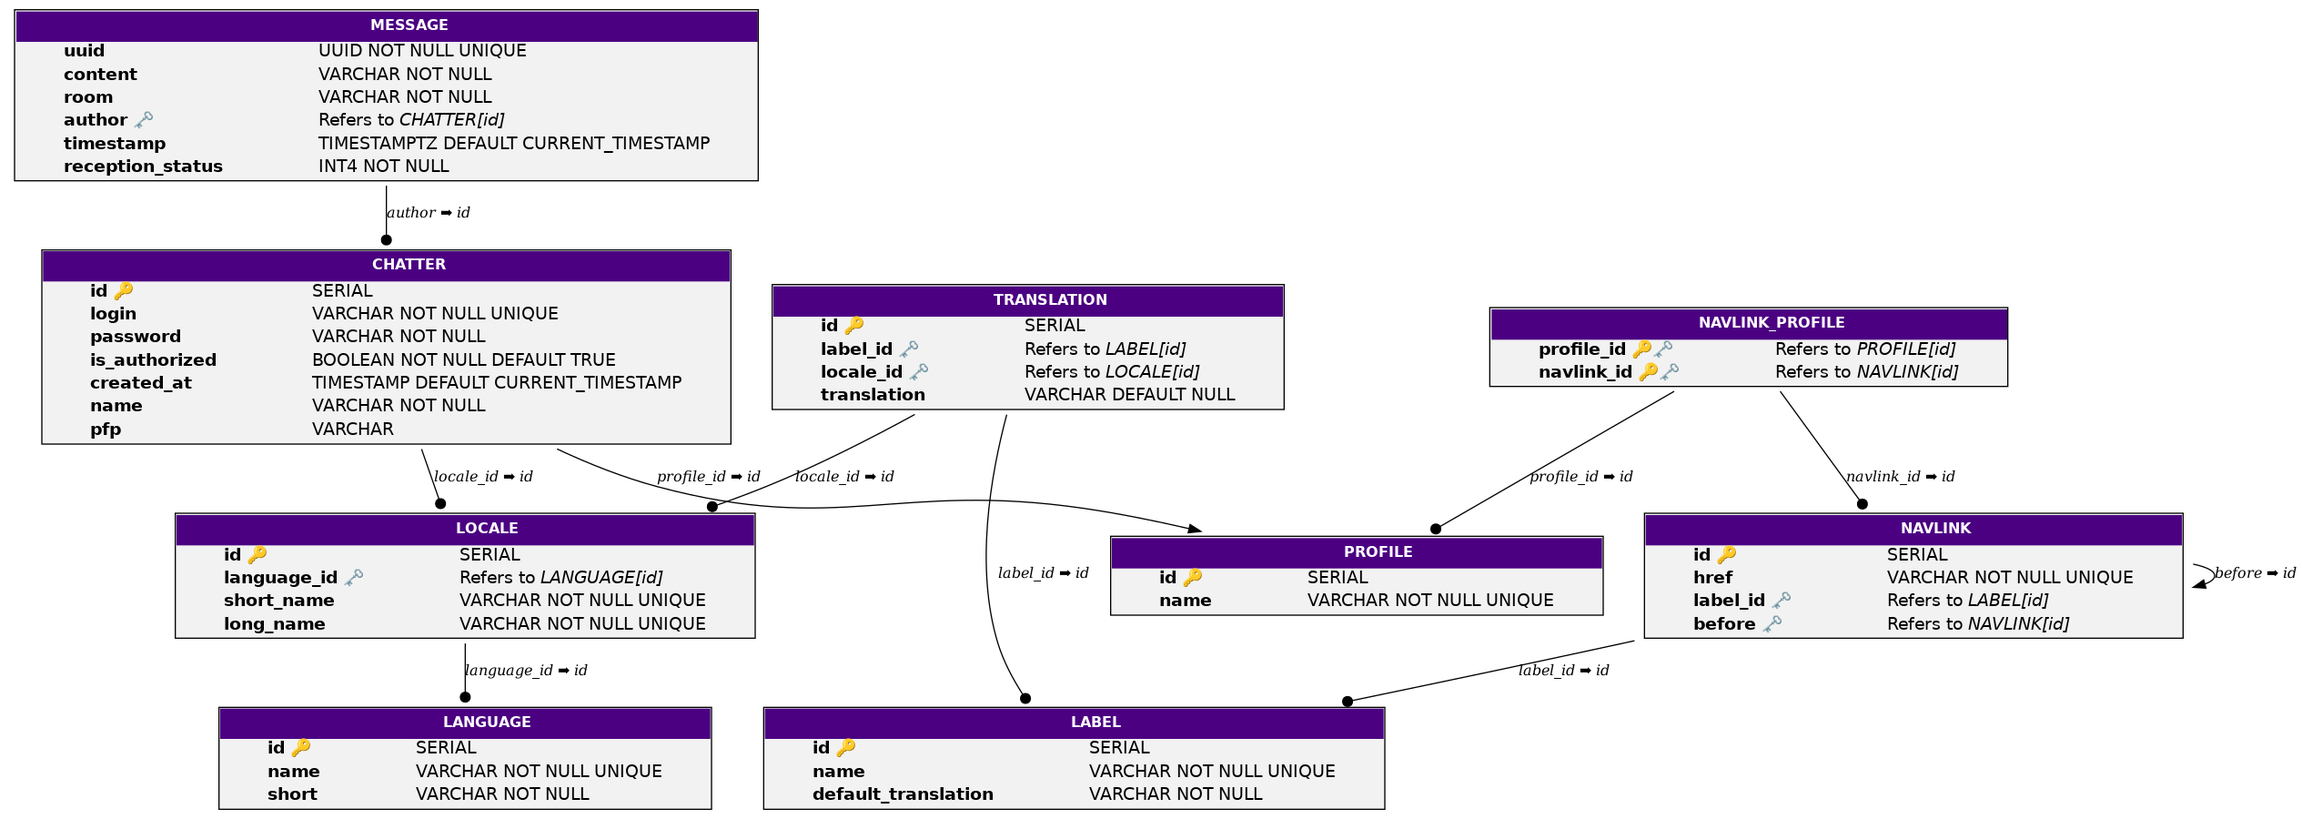
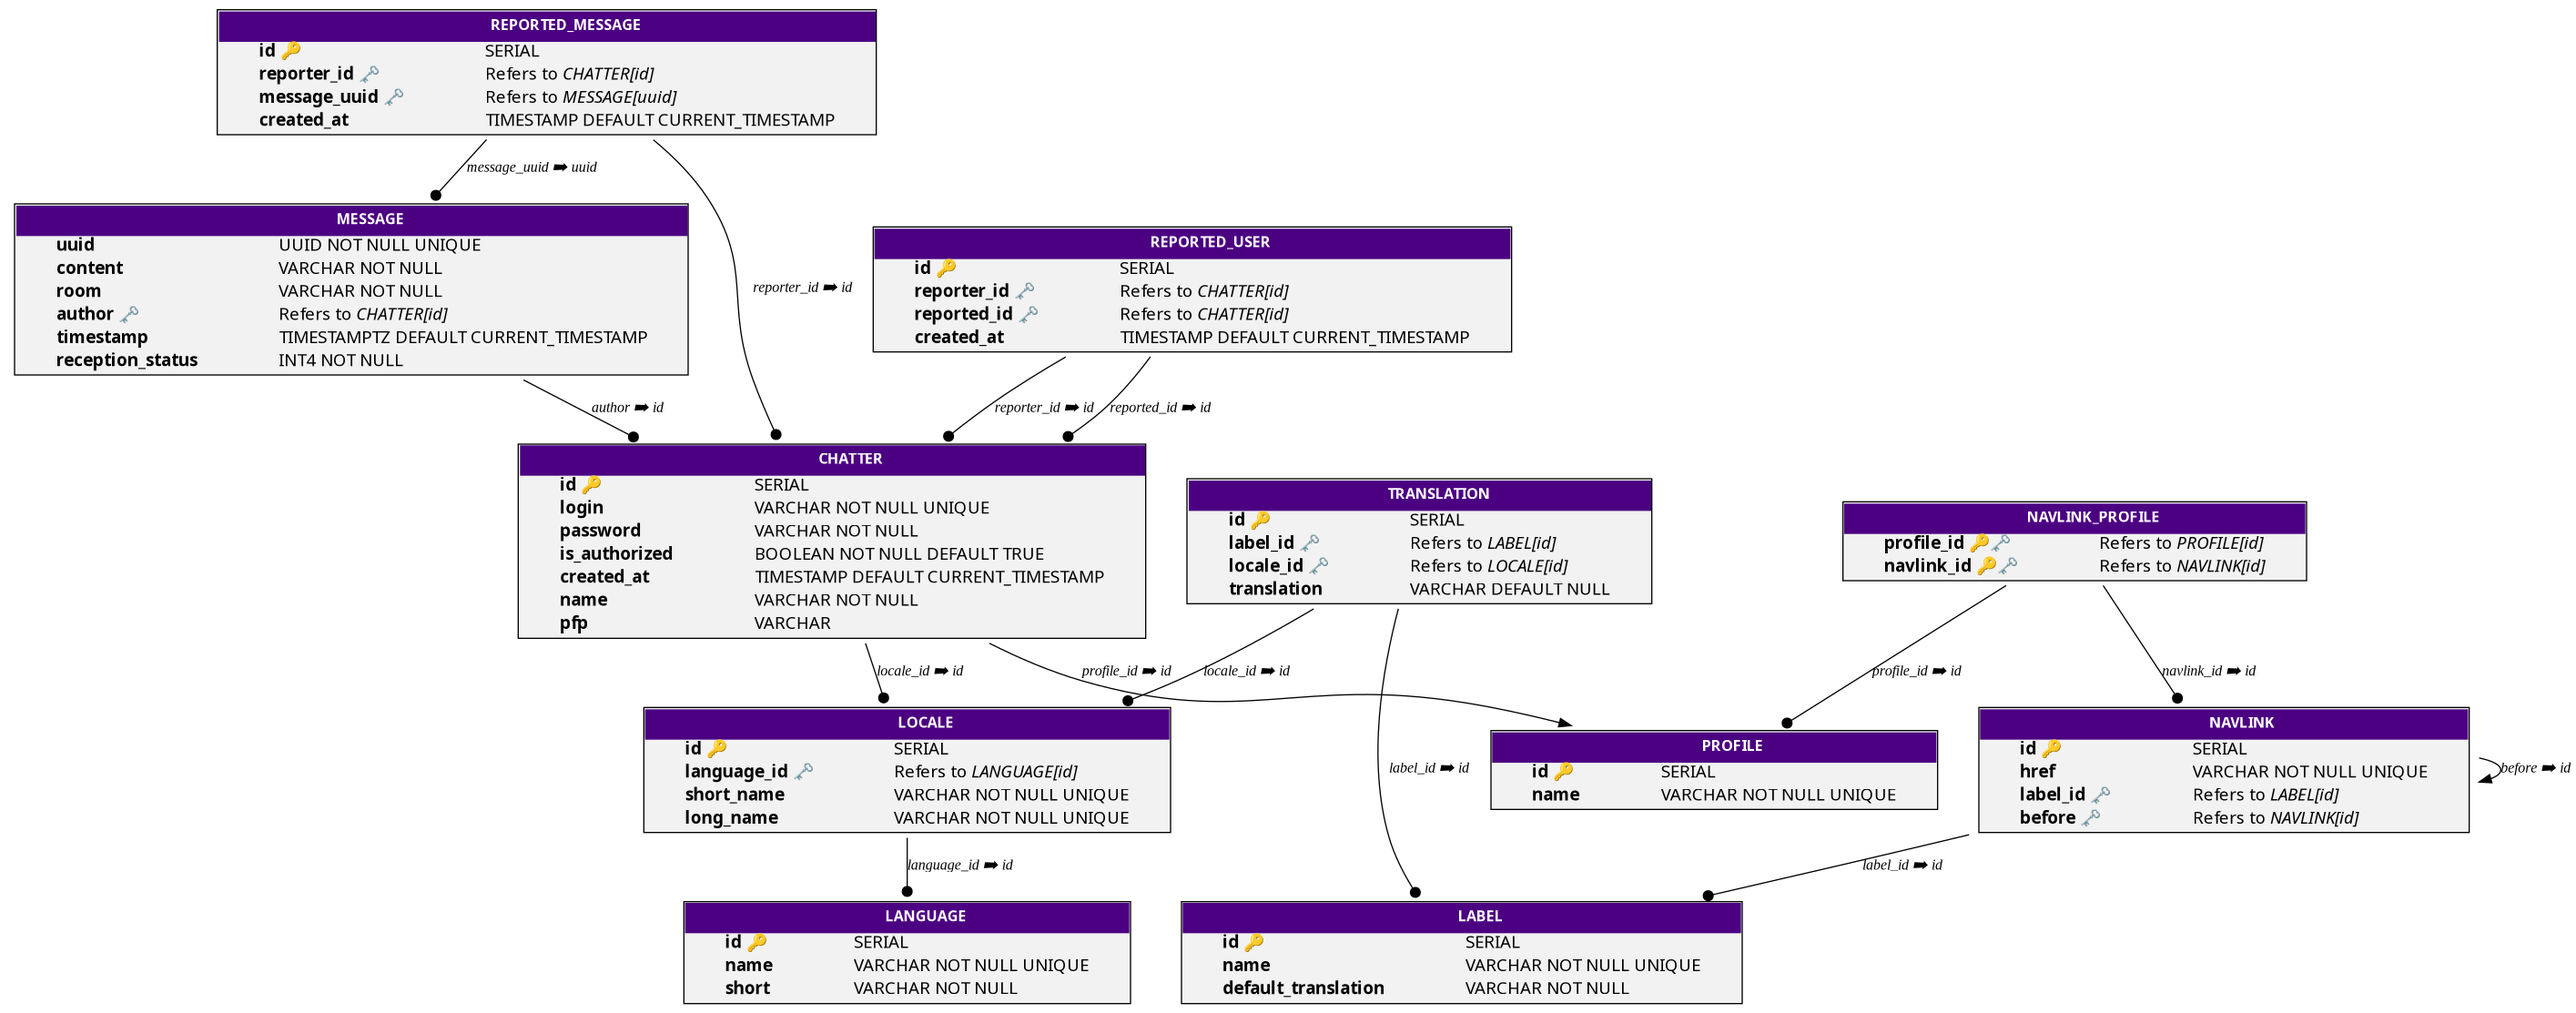
Add possibilities to report a user

diff --git a/tchatchers_front/src/components/right_menu/message_rmenu.rs b/tchatchers_front/src/components/right_menu/message_rmenu.rs
@@ -1,14 +1,14 @@
 use std::rc::Rc;
 
 use serde::{Deserialize, Serialize};
-use tchatchers_core::{profile::Profile, ws_message::WsMessage};
+use tchatchers_core::{profile::Profile, translation::Translation, ws_message::WsMessage};
 use uuid::Uuid;
 use yew::{function_component, html, use_context, Html, Properties};
 use yew_agent::Dispatched;
 
 use crate::{
-    components::common::I18N,
-    services::chat_bus::ChatBus,
+    components::{common::I18N, toast::Alert},
+    services::{chat_bus::ChatBus, toast_bus::ToastBus},
     utils::{client_context::ClientContext, requester::Requester},
 };
 
@@ -24,7 +24,7 @@ pub fn message_rmenu(props: &MessageRMenuProps) -> Html {
 
     let bearer = client_context.bearer.clone();
 
-    let translation = client_context
+    let translation: Rc<Translation> = client_context
         .user_context
         .as_ref()
         .unwrap()
@@ -32,6 +32,8 @@ pub fn message_rmenu(props: &MessageRMenuProps) -> Html {
         .clone();
 
     let delete_message_li = {
+        let bearer = bearer.clone();
+        let translation = translation.clone();
         let delete_message_id = {
             let props = props.clone();
             move |_| {
@@ -51,6 +53,36 @@ pub fn message_rmenu(props: &MessageRMenuProps) -> Html {
         </li>}
     };
 
+    let report_message_li = {
+        let report_message_id = {
+            let props = props.clone();
+            move |_| {
+                let mut req = Requester::post(&format!("/api/message/{}/report", props.message_id));
+                req.bearer(bearer.clone());
+                wasm_bindgen_futures::spawn_local(async move {
+                    let res = req.send().await;
+                    if res.ok() {
+                        ToastBus::dispatcher().send(Alert {
+                            is_success: true,
+                            content: "This message has been reported with success".into(),
+                        });
+                    } else {
+                        ToastBus::dispatcher().send(Alert {
+                            is_success: false,
+                            content: res.text().await.unwrap_or_else(|_| {
+                                "A problem happened while reporting this message".into()
+                            }),
+                        });
+                    }
+                })
+            }
+        };
+        html! {
+        <li class="hover:text-gray-300" onclick={report_message_id}>
+            <I18N label={"report_message"} default={"Report message"} {translation}/>
+        </li>}
+    };
+
     match client_context.user_context.as_ref().unwrap().user.profile {
         Profile::Moderator | Profile::Admin => html! {
             <ul>
@@ -58,11 +90,14 @@ pub fn message_rmenu(props: &MessageRMenuProps) -> Html {
             </ul>
         },
         Profile::User => html! {
+            <ul>
             if props.is_self {
-                <ul>
-                    {delete_message_li}
-                </ul>
+                {delete_message_li}
+            } else {
+                {report_message_li}
             }
+            </ul>
+
         },
     }
 }

diff --git a/tchatchers_back/src/api/message.rs b/tchatchers_back/src/api/message.rs
@@ -3,7 +3,9 @@ use axum::{
     http::StatusCode,
     response::IntoResponse,
 };
-use tchatchers_core::{profile::Profile, ws_message::WsMessageContent};
+use tchatchers_core::{
+    profile::Profile, reported_message::ReportedMessage, ws_message::WsMessageContent,
+};
 use uuid::Uuid;
 
 use crate::{extractor::JwtUserExtractor, AppState};
@@ -35,5 +37,42 @@ pub async fn delete_message(
     match WsMessageContent::delete_messages(&vec![message_id], &state.pg_pool).await {
         Ok(_) => (StatusCode::OK, "Message deleted"),
         Err(_) => (StatusCode::INTERNAL_SERVER_ERROR, "An error happened"),
+    }
+}
+
+/// Report a message.
+///
+/// # Arguments
+///
+/// - `message_id`: The ID of the message to report.
+///
+/// This function reports a message by inserting a new entry in the `REPORTED_MESSAGE` table of the database. The reported message is associated with the user who made the request, as identified by the JWT token extracted from the request.
+///
+/// If the insertion is successful, the function returns a tuple containing the status code `StatusCode::OK` and a string indicating that the message has been reported.
+///
+/// If an error occurs during the insertion, the function checks if the error is a database error. If the error code is `23505`, it means that the message has already been reported, and the function returns a tuple with the status code `StatusCode::BAD_REQUEST` and a corresponding error message. Otherwise, it returns a tuple with the status code `StatusCode::INTERNAL_SERVER_ERROR` and a generic error message indicating that an error occurred while reporting the message.
+pub async fn report_message(
+    JwtUserExtractor(user): JwtUserExtractor,
+    Path(message_id): Path<Uuid>,
+    state: State<AppState>,
+) -> impl IntoResponse {
+    match ReportedMessage::insert(user.user_id, message_id, &state.pg_pool).await {
+        Ok(_) => (StatusCode::OK, "Message reported"),
+        Err(e) => {
+            if let Some(database_err) = e.as_database_error() {
+                if let Some(code) = database_err.code() {
+                    if code == "23505" {
+                        return (
+                            StatusCode::BAD_REQUEST,
+                            "This message has already been reported",
+                        );
+                    }
+                }
+            }
+            (
+                StatusCode::INTERNAL_SERVER_ERROR,
+                "An error happened while reporting this message",
+            )
+        }
     }
 }

diff --git a/tchatchers_back/src/api/user.rs b/tchatchers_back/src/api/user.rs
@@ -14,6 +14,7 @@ use axum_extra::extract::cookie::Cookie;
 use axum_extra::extract::CookieJar;
 use tchatchers_core::authorization_token::AuthorizationToken;
 use tchatchers_core::refresh_token::RefreshToken;
+use tchatchers_core::reported_user::ReportedUser;
 use tchatchers_core::serializable_token::SerializableToken;
 use tchatchers_core::user::{AuthenticableUser, InsertableUser, UpdatableUser, User};
 use tokio::time::{sleep, Duration};
@@ -271,5 +272,39 @@ pub async fn revoke_user(
     match User::update_activation_status(user_id, false, &state.pg_pool).await {
         Ok(_) => Ok((StatusCode::OK, "User revoked")),
         Err(_) => Err((StatusCode::INTERNAL_SERVER_ERROR, "An error happened")),
+    }
+}
+
+/// Report a user.
+///
+/// # Arguments
+///
+/// - `reported_user`: The ID of the user to report.
+///
+/// This function reports a user by inserting a new entry in the `REPORTED_USER` table of the database. The reported user is associated with the user who made the request, as identified by the JWT token extracted from the request.
+///
+/// If the insertion is successful, the function returns a tuple containing the status code `StatusCode::OK` and a string indicating that the user has been reported.
+///
+/// If an error occurs during the insertion, the function checks if the error is a database error. If the error code is `23505`, it means that the user has already been reported, and the function returns a tuple with the status code `StatusCode::BAD_REQUEST` and a corresponding error message. Otherwise, it returns a tuple with the status code `StatusCode::INTERNAL_SERVER_ERROR` and a generic error message indicating that an error occurred while reporting the user.
+pub async fn report_user(
+    JwtUserExtractor(user): JwtUserExtractor,
+    Path(reported_user): Path<i32>,
+    state: State<AppState>,
+) -> impl IntoResponse {
+    match ReportedUser::insert(user.user_id, reported_user, &state.pg_pool).await {
+        Ok(_) => (StatusCode::OK, "User reported"),
+        Err(e) => {
+            if let Some(database_err) = e.as_database_error() {
+                if let Some(code) = database_err.code() {
+                    if code == "23505" {
+                        return (StatusCode::BAD_REQUEST, "You already reported this user");
+                    }
+                }
+            }
+            (
+                StatusCode::INTERNAL_SERVER_ERROR,
+                "An error happened while reporting this message",
+            )
+        }
     }
 }

diff --git a/tchatchers_front/src/components/right_menu/profile_rmenu.rs b/tchatchers_front/src/components/right_menu/profile_rmenu.rs
@@ -3,9 +3,11 @@ use std::rc::Rc;
 use serde::{Deserialize, Serialize};
 use tchatchers_core::profile::Profile;
 use yew::{function_component, html, use_context, Html, Properties};
+use yew_agent::Dispatched;
 
 use crate::{
-    components::common::I18N,
+    components::{common::I18N, toast::Alert},
+    services::toast_bus::ToastBus,
     utils::{client_context::ClientContext, requester::Requester},
 };
 
@@ -28,6 +30,8 @@ pub fn profile_rmenu(props: &ProfileRMenuProps) -> Html {
         .clone();
 
     let revoke_user_li = {
+        let bearer = bearer.clone();
+        let translation = translation.clone();
         let revoke_user_id = {
             let props = props.clone();
             move |_| {
@@ -45,12 +49,46 @@ pub fn profile_rmenu(props: &ProfileRMenuProps) -> Html {
         }
     };
 
+    let report_user_li = {
+        let report_user_id = {
+            let props = props.clone();
+            move |_| {
+                let mut req = Requester::post(&format!("/api/user/{}/report", props.user_id));
+                req.bearer(bearer.clone());
+                wasm_bindgen_futures::spawn_local(async move {
+                    let res = req.send().await;
+                    if res.ok() {
+                        ToastBus::dispatcher().send(Alert {
+                            is_success: true,
+                            content: "This user has been reported with success".into(),
+                        });
+                    } else {
+                        ToastBus::dispatcher().send(Alert {
+                            is_success: false,
+                            content: res.text().await.unwrap_or_else(|_| {
+                                "A problem happened while reporting this user".into()
+                            }),
+                        });
+                    }
+                })
+            }
+        };
+        html! {
+        <li class="hover:text-gray-300" onclick={report_user_id}>
+            <I18N label={"report_user"} default={"Report user"} {translation}/>
+        </li>}
+    };
+
     match client_context.user_context.as_ref().unwrap().user.profile {
         Profile::Moderator | Profile::Admin => html! {
             <ul>
                 {revoke_user_li}
             </ul>
         },
-        _ => html! {},
+        _ => html! {
+            <ul>
+                {report_user_li}
+            </ul>
+        },
     }
 }

diff --git a/tchatchers_core/src/reported_user.rs b/tchatchers_core/src/reported_user.rs
@@ -1,0 +1,51 @@
+//! This module contains the definition of the `ReportedUser` struct and its associated methods.
+//!
+//! The `ReportedUser` struct represents a reported user and includes fields such as ID, reporter ID, reported ID, and creation timestamp. It is used to store information about users who have been reported.
+//!
+//! The module also provides an implementation block for the `ReportedUser` struct, which includes a method for inserting a reported user into the database when the `back` feature is enabled.
+
+use chrono::{DateTime, Utc};
+use serde::{Deserialize, Serialize};
+#[cfg(feature = "back")]
+use sqlx::{postgres::PgQueryResult, PgPool};
+
+/// Represents a reported user.
+#[derive(Debug, Clone, PartialEq, Eq, Hash, Serialize, Deserialize, Default)]
+#[cfg_attr(feature = "back", derive(sqlx::FromRow))]
+pub struct ReportedUser {
+    /// The ID of the reported user.
+    pub id: i32,
+    /// The ID of the reporter.
+    pub reporter_id: i32,
+    /// The ID of the reported user.
+    pub reported_id: i32,
+
+    /// The creation timestamp.
+    pub created_at: DateTime<Utc>,
+}
+
+impl ReportedUser {
+    #[cfg(feature = "back")]
+    /// Inserts a reported user into the database.
+    ///
+    /// # Arguments
+    ///
+    /// * `reporter_id` - The ID of the reporter.
+    /// * `reported_id` - The ID of the reported user.
+    /// * `pool` - The PostgreSQL connection pool.
+    ///
+    /// # Returns
+    ///
+    /// Returns a `Result` indicating the success or failure of the operation.
+    pub async fn insert(
+        reporter_id: i32,
+        reported_id: i32,
+        pool: &PgPool,
+    ) -> Result<PgQueryResult, sqlx::Error> {
+        sqlx::query("INSERT INTO REPORTED_USER(reporter_id, reported_id) VALUES ($1,$2)")
+            .bind(reporter_id)
+            .bind(reported_id)
+            .execute(pool)
+            .await
+    }
+}

diff --git a/tchatchers_core/src/reported_message.rs b/tchatchers_core/src/reported_message.rs
@@ -1,0 +1,50 @@
+//! This module defines the `ReportedMessage` struct and its associated functionality.
+//!
+//! The `ReportedMessage` struct represents a reported message. It contains information such as the ID of the message,
+//! the ID of the reporter, the UUID of the message, and the creation timestamp.
+
+use chrono::{DateTime, Utc};
+use serde::{Deserialize, Serialize};
+#[cfg(feature = "back")]
+use sqlx::{postgres::PgQueryResult, PgPool};
+use uuid::Uuid;
+
+/// Represents a reported message.
+#[derive(Debug, Clone, PartialEq, Eq, Hash, Serialize, Deserialize, Default)]
+#[cfg_attr(feature = "back", derive(sqlx::FromRow))]
+pub struct ReportedMessage {
+    /// The base ID of the reported message.
+    pub id: i32,
+    /// The ID of the reporter associated with the message.
+    pub reporter_id: i32,
+    /// The UUID of the reported message.
+    pub message_uuid: Uuid,
+    /// The creation timestamp of the reported message.
+    pub created_at: DateTime<Utc>,
+}
+
+impl ReportedMessage {
+    /// Inserts a reported message into the database.
+    ///
+    /// # Arguments
+    ///
+    /// - `reporter_id`: The ID of the reporter associated with the message.
+    /// - `message_uuid`: The UUID of the reported message.
+    /// - `pool`: The PostgreSQL connection pool.
+    ///
+    /// # Returns
+    ///
+    /// Returns a `Result` indicating whether the insertion was successful or not.
+    #[cfg(feature = "back")]
+    pub async fn insert(
+        reporter_id: i32,
+        message_uuid: Uuid,
+        pool: &PgPool,
+    ) -> Result<PgQueryResult, sqlx::Error> {
+        sqlx::query("INSERT INTO REPORTED_MESSAGE(reporter_id, message_uuid) VALUES ($1,$2)")
+            .bind(reporter_id)
+            .bind(message_uuid)
+            .execute(pool)
+            .await
+    }
+}

diff --git a/tchatchers_back/src/main.rs b/tchatchers_back/src/main.rs
@@ -18,6 +18,7 @@ use api::admin::translation::reload_translations;
 use api::locale::get_locale_id;
 use api::locale::get_locales;
 use api::message::delete_message;
+use api::message::report_message;
 use api::pfp::*;
 use api::user::*;
 use api::user_context::user_context;
@@ -123,6 +124,7 @@ async fn main() {
         )
         .route("/api/login_exists/:login", get(login_exists))
         .route("/api/user/revoke/:user_id", post(revoke_user))
+        .route("/api/user/:reported_user/report", post(report_user))
         .route(
             "/api/authenticate",
             post(authenticate).patch(reauthenticate),
@@ -134,6 +136,7 @@ async fn main() {
         .route("/api/locale/", get(get_locales))
         .route("/api/locale/:locale_id", get(get_locale_id))
         .route("/api/message/:message_id", delete(delete_message))
+        .route("/api/message/:message_id/report", post(report_message))
         .route(
             "/api/admin/translation",
             put(reload_translations).get(get_all_translations),

diff --git a/tchatchers_core/src/lib.rs b/tchatchers_core/src/lib.rs
@@ -12,6 +12,8 @@ pub mod navlink;
 pub mod pool;
 pub mod profile;
 pub mod refresh_token;
+pub mod reported_message;
+pub mod reported_user;
 pub mod room;
 pub mod serializable_token;
 pub mod translation;
